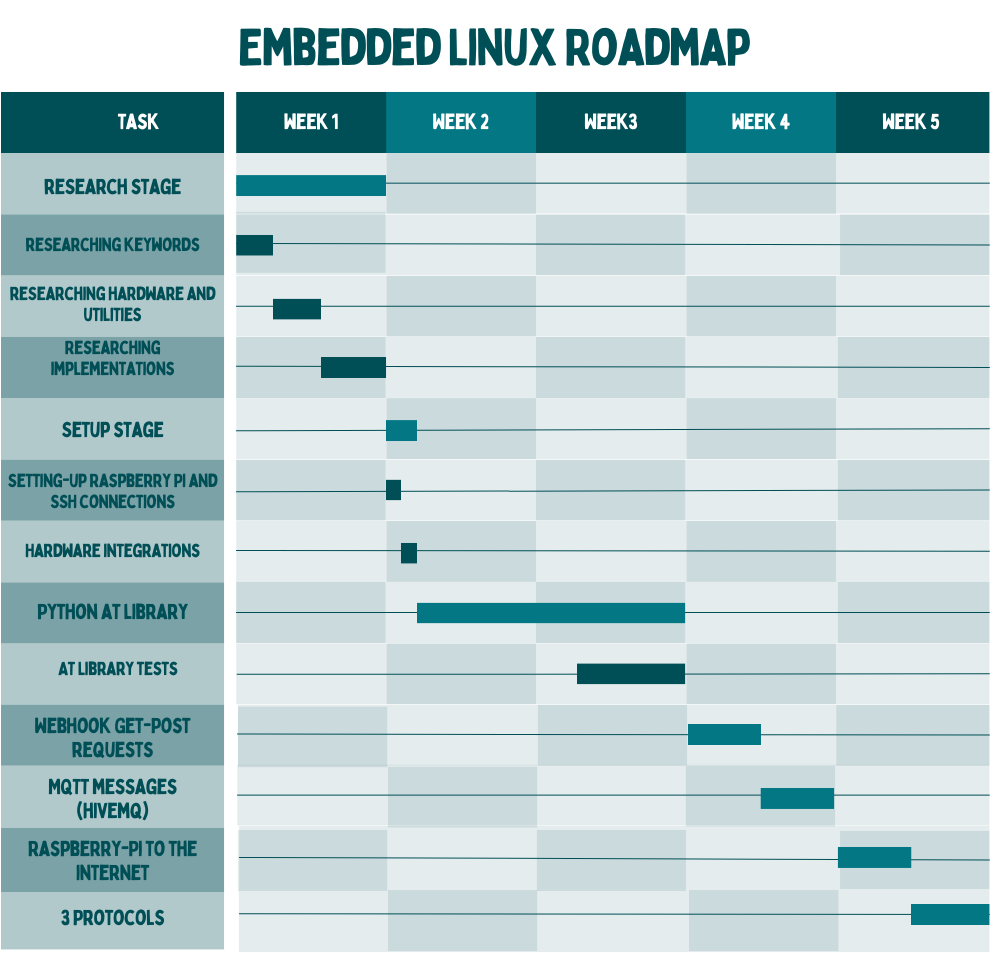
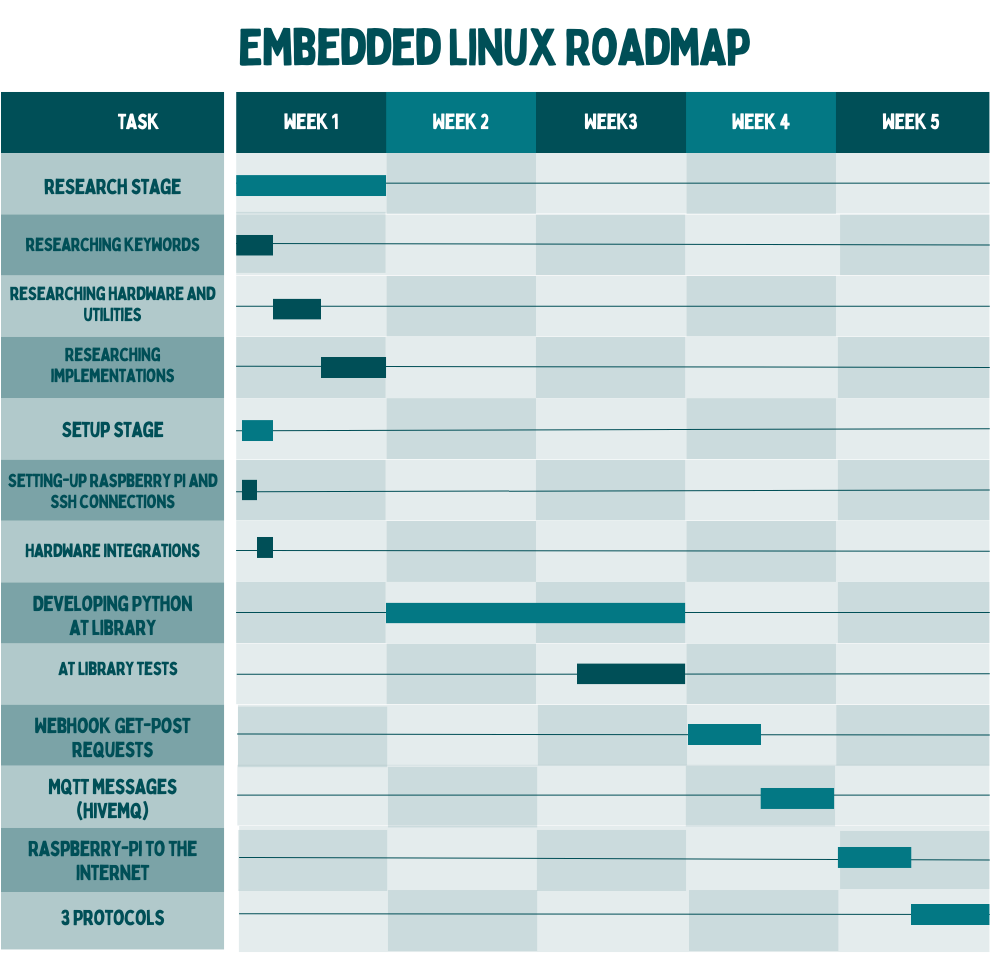
Update Gantt Chart

diff --git a/README.md b/README.md
@@ -1,13 +1,13 @@
 # Embedded Linux Internship
 
-This repository will serve as a Weekly documentation of internship progress.
+This repository will be used to keep track of the progress made during the internship on a weekly basis.
 
 ## Table of Contents
 - [Embedded Linux Internship](#embedded-linux-internship)
   - [Table of Contents](#table-of-contents)
   - [Gantt Chart](#gantt-chart)
   - [Roadmap](#roadmap)
-    - [(-) / 14 December](#---14-december)
+    - [(-) / 14 December ✔](#---14-december-)
     - [14 December / 21 December](#14-december--21-december)
     - [21 December / 28 December](#21-december--28-december)
     - [28 December / 4 January](#28-december--4-january)
@@ -20,22 +20,22 @@ This repository will serve as a Weekly documentation of internship progress.
 
 ## Roadmap
 
-###  (-) / 14 December
-- Creating GitHub repository
-- Making roadmap
-- Creating Gantt Chart
+###  (-) / 14 December ✔
+- Creating GitHub repository ✔
+- Making roadmap ✔
+- Creating Gantt Chart ✔
 
 ### 14 December / 21 December
 -	<u>Research Stage</u>
 -	Researching keywords
 -	Researching hardware and utilities
 -	Researching implementations
+-	<u>Setup Stage</u> ✔
+-	Setting-up Raspberry Pi ✔
+-	Setting-up SSH connections ✔
+-	Hardware integrations ✔
 
 ### 21 December / 28 December
--	<u>Setup Stage</u>
--	Setting-up Raspberry Pi
--	Setting-up SSH connections
--	Hardware integrations
 -	<u>Developing Python AT Library</u>
 
 ### 28 December / 4 January
